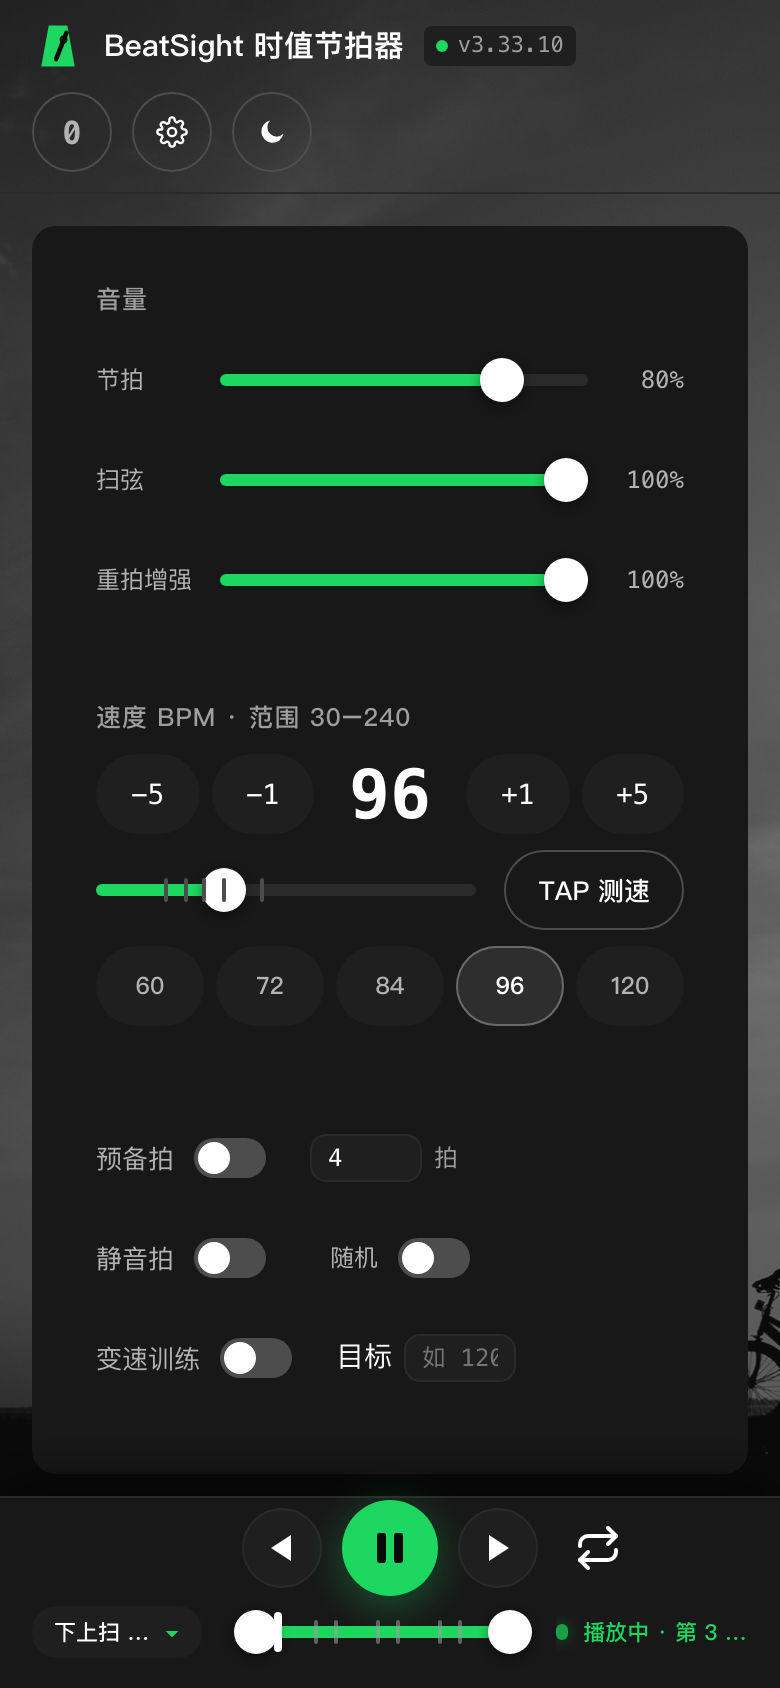
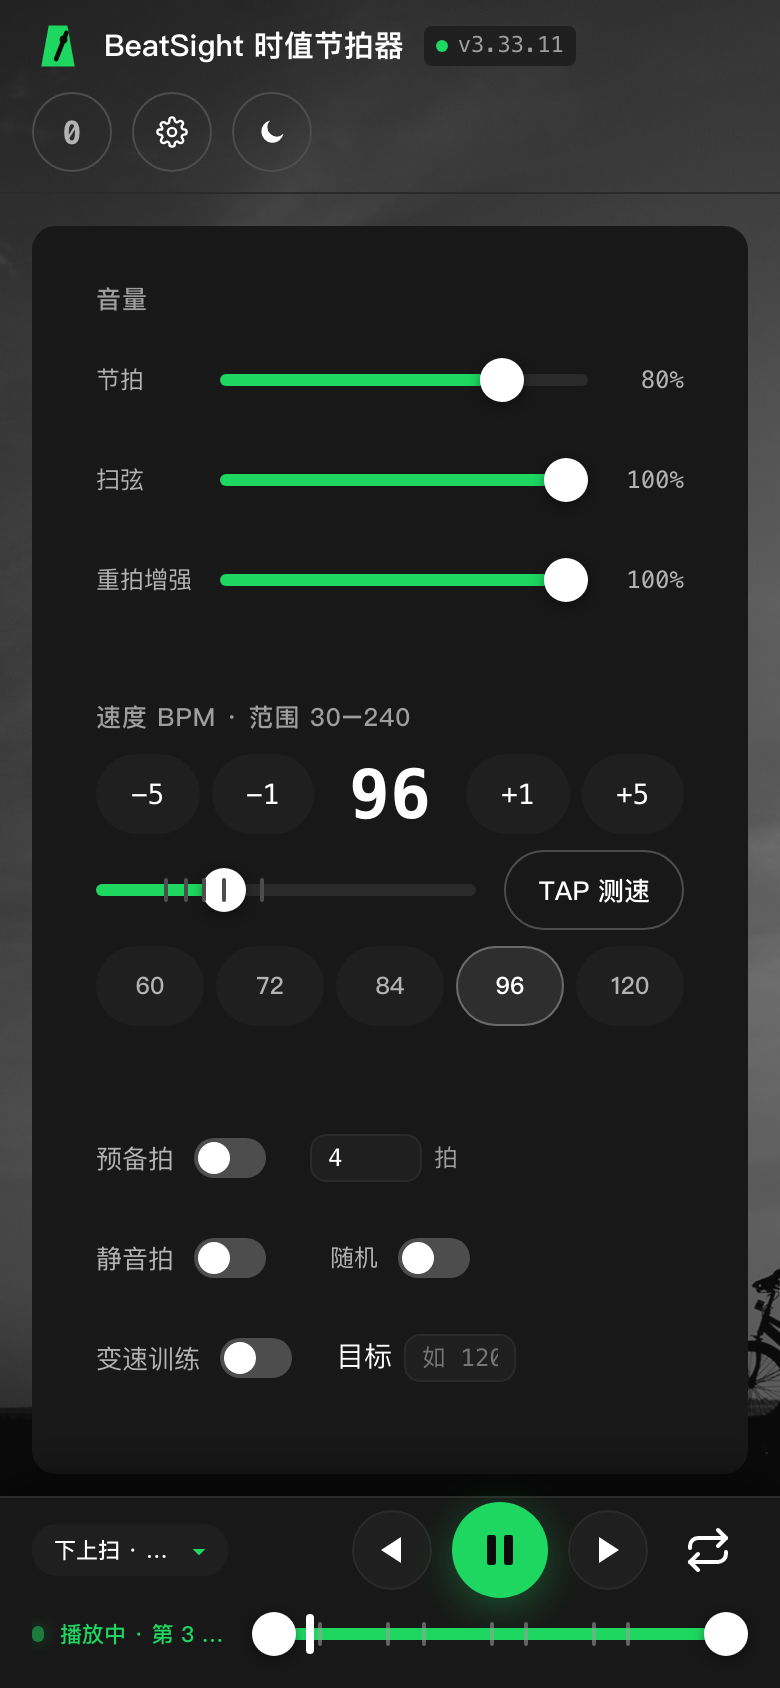
feat(v3.33.12): 窄屏底栏改两列两行——传输键组归右，宽度让给文字列（用户拍板）
窄屏原先"传输键居中 + 第二行胶囊/进度条/状态"，为居中白留两侧对称空白：胶囊只剩 63px、状态只剩 112px
（都被截断）；底栏双滑块控件中心 188.5 vs 视口中心 195（6.5px），上一版用 margin-left 只压到 3px，因为
margin-left 只推左缘、右缘被同一行的状态灯钉住。
用户拍板「读法 2 + 归右」：左列 = 当前型胶囊 / 状态文字，右列 = 传输键组 / 进度条。

修法（<=640）：grid-template-columns:minmax(0,1fr) max-content + grid-template-areas "ctx trans"/"stat prog"；
.pb-right{display:contents} 把进度条与状态分别提升为网格项（无需改 DOM）。两条踩坑留档：覆盖必须用 id 级
（旧规则 #argJump{grid-column:1 / -1;justify-self:center} 是 1,0,0），且该媒体块必须放在样式表末尾
（同特异性后来者胜，放前面会被 1033 行那条窄屏规则盖掉）。撤回上一版 .demo-range-track{margin-left:6.5px}。

契约更新：桌面档仍要求"播放键组居中于底栏内容列"（<=2px）；窄屏改判"右对齐底栏内容列"——冒烟断言拆成
窄屏/桌面两支，探针补 jumpRight/contentRight 两个量。

实测（390）：cols 98px/248px；胶囊 16-114、状态 16-112、传输键组 126-374（右缘贴内容列右缘 374）、
进度条 126-374、播放键中心 250（右列中心）。

自验：check-all 18/18；README 手机图按新布局重拍（并隐藏诊断面板、关图例）。

diff --git a/index.html b/index.html
@@ -792,9 +792,7 @@ section.card{width:1048px;max-width:100%;margin-inline:auto}
 #lyricPosGroup .pill{font-size:12px;padding:6px 10px}
 /* v3.33.10（用户清单 1）：三块语义小标题——作为整行插进现有 .bpm-row，胶囊在其下自然成组 */
 .bpm-row .group-label{flex:1 1 100%;width:100%;margin-top:20px;margin-bottom:-2px}
-/* v3.33.10（用户实拍）：窄屏底栏的跳段双滑块控件略偏左——实测轨道中心 188.5 vs 视口中心 195
-   （差 6.5px）。这一行把它按回视口中心（只在窄屏生效）。 */
-@media (max-width:640px){.demo-range-track{margin-left:6.5px}}   /* -2px：把组内距离压回全站既有的 10px（.bpm-row 行距 12 时，标题离内容 = 10），不这样会与 Swing/延迟补偿等组的 10px 打架（实测两套值 14/10 忽紧忽松） */   /* v3.33.10：小标题作为**整行**——不能绑 .viz-head-grid（设置弹窗不在其内，选择器会空转，标签退化成行内元素挤在上一行末尾，实拍已见） */
+   /* -2px：把组内距离压回全站既有的 10px（.bpm-row 行距 12 时，标题离内容 = 10），不这样会与 Swing/延迟补偿等组的 10px 打架（实测两套值 14/10 忽紧忽松） */   /* v3.33.10：小标题作为**整行**——不能绑 .viz-head-grid（设置弹窗不在其内，选择器会空转，标签退化成行内元素挤在上一行末尾，实拍已见） */
 .lyric-lane{position:relative;margin-top:10px;display:flex;flex-direction:column;gap:4px}
 .lyric-lane[hidden]{display:none}
 /* v2.86.0：伴随节奏模式 = 覆盖层（#lyricLane 切绝对定位，叠到 #viz 上，逐行 translateY）。
@@ -2150,6 +2148,23 @@ body[data-theme="obs"] .help-fig text[fill="#fff"]{fill:var(--t1)}
    所以要单独把按钮放回可点。字号比面板正文再小一档，避免抢占视觉重心 */
 .diag .diag-copy{pointer-events:auto;align-self:flex-start;padding:3px 10px;font:600 10px/1.4 var(--mono)}
 
+/* 用户拍板「读法 2 + 归右」：窄屏底栏改两列两行——
+   左列 = 当前型胶囊 / 状态文字 ｜ 右列 = 传输键组 / 进度条。
+   动机：原先"传输键居中"在窄屏两侧白留对称空白，胶囊只剩 63px、状态只剩 112px 都被截断；
+   归右后宽度让给文字列，播放键也贴近右手拇指。桌面档完全不动（本条在 <=640 内）。
+   实现：.pb-right 用 display:contents 拆开（进度条与状态各自成为父网格项），无需改 DOM。
+   撤回上一版的 6.5px 微调：新布局里进度条右对齐，旧微调已无对象。 */
+@media (max-width:640px){
+  .play-bar{grid-template-columns:minmax(0,1fr) max-content;grid-template-areas:"ctx trans" "stat prog";
+    column-gap:12px;row-gap:2px;align-items:center}
+  .play-bar .pb-ctx{grid-area:ctx;justify-self:start;min-width:0;max-width:100%;overflow:hidden}
+  /* id 级覆盖：旧窄屏规则是 #argJump{grid-column:1 / -1;justify-self:center}（1,0,0），
+     类级压不过它 ⇒ 这里必须同样用 id，并显式 grid-column:auto 撤销跨列。 */
+  .play-bar #argJump{grid-area:trans;grid-column:auto;justify-self:end}
+  .play-bar .pb-right{display:contents}
+  .play-bar .pb-sub{grid-area:stat;justify-self:start;min-width:0;overflow:hidden}
+  .play-bar .pb-progress{grid-area:prog;justify-self:end;width:100%}
+}
 </style>
 </head>
 <body>
@@ -3437,23 +3452,23 @@ body[data-theme="obs"] .help-fig text[fill="#fff"]{fill:var(--t1)}
               → v1.1.1 播放中切节奏型「点下即生效」（相位就地接续，不再等小节边界）
    模块索引（IIFE，按依赖方向排序，禁止反向引用）：
      行号为 index.html 绝对行号，仅作文件内导航；在其之前增删代码后需整体重算。
-     L3469  数据          版本号 / TPB 常量 / CONFIG / 内置节奏型数据
-     L4154  Store         持久化 / 状态创建 / 数据迁移 / 预设导入导出
-     L5886  共享状态      跨模块可变状态（S/customs/draft/appliedPat/activePattern + $ / clear 等助手）
-     L6848  Modal         应用内弹窗
-     L6993  Viz           时值可视化渲染与每帧动画
-     L10369 AudioEngine         Web Audio 引擎与前瞻调度（含 swing 偏移）
-     L11050 Trainer       变速训练器
-     L11260 Controls      播放控制 / BPM / 拍号 / Swing / 重拍分组 / 音量 / 静音拍
-     L11908 Presets       预设库（节拍 / 扫弦 / 自定义 三区）/ 拍号对齐 / 播放中切换挂起
-     L13499 Editor        自定义节奏型编辑器
-     L14043 Settings      设置弹窗（v2.10.12：主题 / 弹跳球 / 六线底纹 / 音色 / 导入导出 / 使用方法入口）
-     L14090 Ear           听辨训练（v1.10.0）
-     L14318 Arrange       曲式编排（v2.0.0）
-     L17247 Help          使用方法（v2.0.1）
-     L17376 KeepAlive     后台保活（v1.4：wakeLock + 静音循环音频兜底，只读共享状态）
-     L17450 Diagnostics   诊断与产物戳记（v2.0.4 立；v2.19.0 由装配层抽出：计数器 / 错误环形缓冲 / 产物戳记自检）
-     L17693 初始化（装配） 各模块 hook 接线与启动
+     L3484  数据          版本号 / TPB 常量 / CONFIG / 内置节奏型数据
+     L4169  Store         持久化 / 状态创建 / 数据迁移 / 预设导入导出
+     L5901  共享状态      跨模块可变状态（S/customs/draft/appliedPat/activePattern + $ / clear 等助手）
+     L6863  Modal         应用内弹窗
+     L7008  Viz           时值可视化渲染与每帧动画
+     L10384 AudioEngine         Web Audio 引擎与前瞻调度（含 swing 偏移）
+     L11065 Trainer       变速训练器
+     L11275 Controls      播放控制 / BPM / 拍号 / Swing / 重拍分组 / 音量 / 静音拍
+     L11923 Presets       预设库（节拍 / 扫弦 / 自定义 三区）/ 拍号对齐 / 播放中切换挂起
+     L13514 Editor        自定义节奏型编辑器
+     L14058 Settings      设置弹窗（v2.10.12：主题 / 弹跳球 / 六线底纹 / 音色 / 导入导出 / 使用方法入口）
+     L14105 Ear           听辨训练（v1.10.0）
+     L14333 Arrange       曲式编排（v2.0.0）
+     L17262 Help          使用方法（v2.0.1）
+     L17391 KeepAlive     后台保活（v1.4：wakeLock + 静音循环音频兜底，只读共享状态）
+     L17465 Diagnostics   诊断与产物戳记（v2.0.4 立；v2.19.0 由装配层抽出：计数器 / 错误环形缓冲 / 产物戳记自检）
+     L17708 初始化（装配） 各模块 hook 接线与启动
    边界规则：
      1. 模块间只通过对方暴露的接口通信（如 Trainer.updateProg()），禁止直读内部变量
      2. 跨模块共享的可变状态集中在「共享状态」区（位于 Store 之后、其余模块之前）：
@@ -3479,7 +3494,7 @@ body[data-theme="obs"] .help-fig text[fill="#fff"]{fill:var(--t1)}
    发版规则（v1.6.4 起）：每次发版都 bump 这一行，不分功能版与工程版。此前 v1.6.1~v1.6.4 连发
    四版都没动它，线上徽章长期停在 v1.6.0——版本号是用户判断「更新到底生效没有」的唯一凭据，
    跳过它就等于让这个凭据说谎。改这一行即可，两处显示自动跟着走 */
-const VERSION = "3.33.11";
+const VERSION = "3.33.12";
 const TPB = 48;                                        // ticks per beat（PPQN）
 /* 具名时值常量（v1.3.0）：12/24/36 在本文件里既当 tick 时值又当 CSS 像素值出现过几百次，
    靠裸数字读不出语义（`s.t % 12` 是"能否画十六分刻度"、`s.t < 24` 是"是否算短音符"）。

diff --git a/tools/smoke.js b/tools/smoke.js
@@ -817,9 +817,13 @@ function layoutProbe(){
     const br = round(parseFloat(getComputedStyle(bar).paddingRight));
     const contentCenter = round(bl + (bar.clientWidth - bl - br) / 2);
     const jumpCenter = jr ? round(jr.left + jr.width / 2) : null;
+    /* v3.33.12：窄屏改「归右」契约后，需要右缘而不是中心来判定 */
+    const jumpRight = jr ? round(jr.right) : null;
+    const contentRight = round(bar.getBoundingClientRect().left + bar.clientWidth - br);
     return { keyCenter: round(kr.left + kr.width / 2),
       vpCenter: round(document.documentElement.clientWidth / 2),
       jumpCenter: jumpCenter, contentCenter: contentCenter,
+      jumpRight: jumpRight, contentRight: contentRight,
       gapBottom: round(window.innerHeight - kr.bottom) };
   })();
   /* ★ v3.12.0：底栏右区（#pb-right）的实高 vs 底栏**内容区**实高——
@@ -1967,7 +1971,14 @@ async function main(){
           /* ★ v3.3.1（用户反馈）：播放键必须**水平居中**且不贴底——两条都是真机才看得出的观感，
              也是本轮的实际故障（space-between 下中列被左右不等宽挤偏）。 */
           if (L.center){
-            if (L.center.jumpCenter !== null && L.center.contentCenter !== null){
+            if (String(vp).indexOf("窄屏") >= 0){
+              /* ★ v3.33.12（用户拍板「读法 2 + 归右」）：**窄屏不再要求居中**，改判"右对齐底栏内容列"。
+                 动机（用户实拍）：居中在窄屏两侧白留对称空白，胶囊只剩 63px、状态只剩 112px 都被截断；
+                 归右后宽度让给文字列，播放键也更贴近右手拇指。桌面档契约不变（仍居中，见 else 分支）。 */
+              ok(L.center.jumpRight !== null && Math.abs(L.center.jumpRight - L.center.contentRight) <= 2,
+                p.label + "·" + vp + "：★★★ 窄屏播放键组**右对齐底栏内容列**（v3.33.12 用户拍板「归右」）",
+                "argJump 右缘 " + L.center.jumpRight + " vs 内容列右缘 " + L.center.contentRight);
+            } else if (L.center.jumpCenter !== null && L.center.contentCenter !== null){
               ok(Math.abs(L.center.jumpCenter - L.center.contentCenter) <= 2,
                 p.label + "·" + vp + "：★★★ 播放键组**居中于底栏内容列**（v3.26.0：内容列 = 卡片内容列）",
                 "argJump 中心 " + L.center.jumpCenter + " vs 内容列中心 " + L.center.contentCenter);

diff --git a/CHANGELOG.md b/CHANGELOG.md
@@ -9,6 +9,36 @@
 
 ---
 
+## v3.33.12 · 窄屏底栏改「两列两行」：传输键组归右，宽度让给文字列（用户拍板）（2026-10-05）
+
+### 为什么改（用户实拍 + 实测）
+
+- 上一版窄屏是"传输键**居中** + 第二行放胶囊/进度条/状态"：为居中白留两侧对称空白，
+  胶囊只剩 **63px**（截成「下上扫 …」）、状态只剩 **112px**（截成「播放中 · 第 4 …」）；
+  同时底栏双滑块控件中心 188.5 vs 视口中心 195（**6.5px** 偏差，上一版用 `margin-left` 只压到 3px，
+  因为 `margin-left` 只推左缘、右缘被同一行的状态灯钉住）。
+- 用户拍板：**读法 2 + 归右** —— 左列 = 当前型胶囊 / 状态文字，右列 = 传输键组 / 进度条。
+
+### 修法
+
+- 窄屏（≤640）改 `grid-template-columns:minmax(0,1fr) max-content` + `grid-template-areas:"ctx trans" "stat prog"`；
+  `.pb-right{display:contents}` 把进度条与状态分别提升为网格项，**无需改 DOM**；
+  ★ 覆盖必须用 **id 级**（旧规则是 `#argJump{grid-column:1 / -1;justify-self:center}`，类级压不过它）；
+  ★ 该媒体查询块必须放在**样式表末尾**（同特异性下后来者胜，放前面会被 1033 行那条窄屏规则盖掉——本批踩过）。
+- 撤回上一版的 `.demo-range-track{margin-left:6.5px}`（新布局下进度条右对齐，旧微调已无对象）。
+
+### 取舍与契约更新
+
+- **桌面档完全不动**：仍要求"播放键组居中于底栏内容列"（≤2px 容差）。
+- **窄屏契约改写**（用户拍板，非放宽）：由"居中"改为"**右对齐底栏内容列**"，冒烟断言拆成窄屏/桌面两支，
+  探针补 `jumpRight/contentRight` 两个量。
+
+### 自验
+
+- 实测（390）：`cols 98px 248px`；胶囊 16–114、状态 16–112、传输键组 **126–374**（右缘贴内容列右缘 374）、
+  进度条 126–374；播放键中心 250（右列中心）。
+- `check-all` 18/18；README 手机图按新布局重拍（并隐藏诊断面板/关图例）。
+
 ## v3.33.11 · 窄屏底栏跳段双滑块居中（6.5px→3px）+ README 配图按文案与播放态重拍（2026-10-05）
 
 - **窄屏底栏跳段/循环双滑块略偏左**：实测轨道框 `L111 R266`（中心 188.5）vs 视口中心 195，差 **6.5px**。

diff --git a/README.md b/README.md
@@ -74,7 +74,7 @@ BeatSight 的做法是把节奏**画出来**：每颗音是一个块，块宽与
 
 ## 功能一览
 
-当前 `v3.33.11`。逐版本变更见 [CHANGELOG.md](CHANGELOG.md)（v0 / v1 / v2 三条老线分卷在 [docs/archive/CHANGELOG-v0.md](docs/archive/CHANGELOG-v0.md)、[docs/archive/CHANGELOG-v1.md](docs/archive/CHANGELOG-v1.md) 与 [docs/archive/CHANGELOG-v2.md](docs/archive/CHANGELOG-v2.md)）；完整操作说明在应用内顶栏「使用方法」页。
+当前 `v3.33.12`。逐版本变更见 [CHANGELOG.md](CHANGELOG.md)（v0 / v1 / v2 三条老线分卷在 [docs/archive/CHANGELOG-v0.md](docs/archive/CHANGELOG-v0.md)、[docs/archive/CHANGELOG-v1.md](docs/archive/CHANGELOG-v1.md) 与 [docs/archive/CHANGELOG-v2.md](docs/archive/CHANGELOG-v2.md)）；完整操作说明在应用内顶栏「使用方法」页。
 
 | | |
 |---|---|
